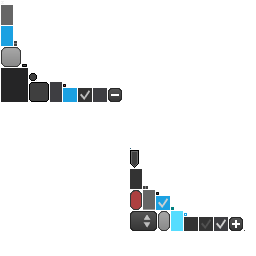
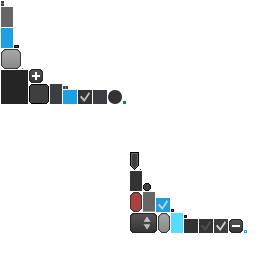
Added radio button

diff --git a/UI/test/pl/kotcrab/vis/ui/test/TestWindow.java b/UI/test/pl/kotcrab/vis/ui/test/TestWindow.java
@@ -20,6 +20,7 @@ import pl.kotcrab.vis.ui.TableUtils;
 import pl.kotcrab.vis.ui.VisTable;
 import pl.kotcrab.vis.ui.components.VisCheckBox;
 import pl.kotcrab.vis.ui.components.VisLabel;
+import pl.kotcrab.vis.ui.components.VisRadioButton;
 import pl.kotcrab.vis.ui.components.VisTextButton;
 import pl.kotcrab.vis.ui.components.VisTextField;
 import pl.kotcrab.vis.ui.components.VisWindow;
@@ -66,7 +67,20 @@ public class TestWindow extends VisWindow {
 		checkboxTable.add(disabledCheckedCheckbox);
 
 		// ---
+		VisRadioButton normalRadio= new VisRadioButton(" radio");
+		VisRadioButton disabledRadio = new VisRadioButton(" disabled");
+		VisRadioButton disabledCheckedRadio = new VisRadioButton(" disabled radio");
+		disabledRadio.setDisabled(true);
+		disabledCheckedCheckbox.setDisabled(true);
+		disabledCheckedRadio.setChecked(true);
 
+		VisTable radioTable = new VisTable(true);
+		radioTable.add(normalRadio);
+		radioTable.add(disabledRadio);
+		radioTable.add(disabledCheckedRadio);
+		
+		//---F
+		
 		VisTextField normalTextfield = new VisTextField("textbox");
 		VisTextField disabledTextfield = new VisTextField("disabled");
 		VisTextField passwordTextfield = new VisTextField("password");
@@ -83,6 +97,7 @@ public class TestWindow extends VisWindow {
 		add(labelTable).row();
 		add(buttonTable).row();
 		add(checkboxTable).row();
+		add(radioTable).row();
 		add(textfieldTable).row();
 
 		pack();

diff --git a/UI/src/pl/kotcrab/vis/ui/components/VisRadioButton.java b/UI/src/pl/kotcrab/vis/ui/components/VisRadioButton.java
@@ -1,0 +1,29 @@
+/*******************************************************************************
+ * Copyright 2014 Pawel Pastuszak
+ *
+ * Licensed under the Apache License, Version 2.0 (the "License");
+ * you may not use this file except in compliance with the License.
+ * You may obtain a copy of the License at
+ *
+ * http://www.apache.org/licenses/LICENSE-2.0
+ *
+ * Unless required by applicable law or agreed to in writing, software
+ * distributed under the License is distributed on an "AS IS" BASIS,
+ * WITHOUT WARRANTIES OR CONDITIONS OF ANY KIND, either express or implied.
+ * See the License for the specific language governing permissions and
+ * limitations under the License.
+ ******************************************************************************/
+
+package pl.kotcrab.vis.ui.components;
+
+import pl.kotcrab.vis.ui.VisUI;
+
+public class VisRadioButton extends VisCheckBox {
+	public VisRadioButton (String text) {
+		this(text, VisUI.skin.get("radio", VisCheckBoxStyle.class));
+	}
+
+	public VisRadioButton (String text, VisCheckBoxStyle style) {
+		super(text, style);
+	}
+}
